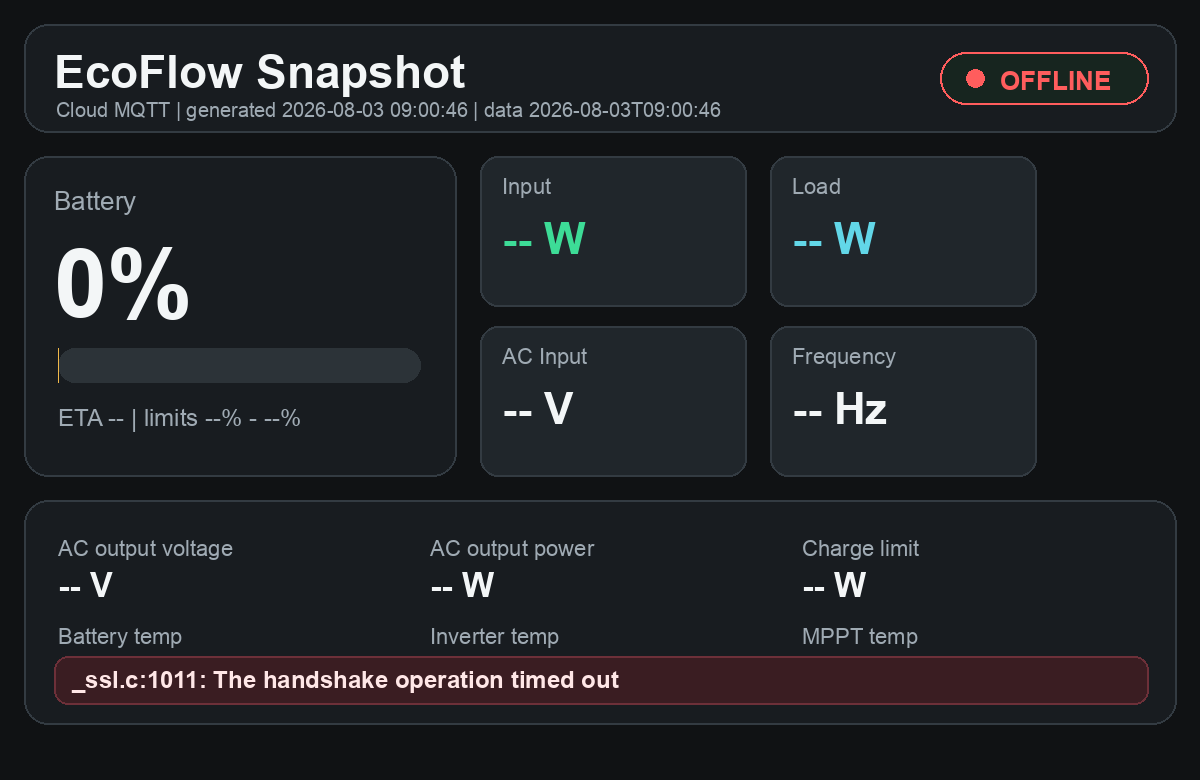
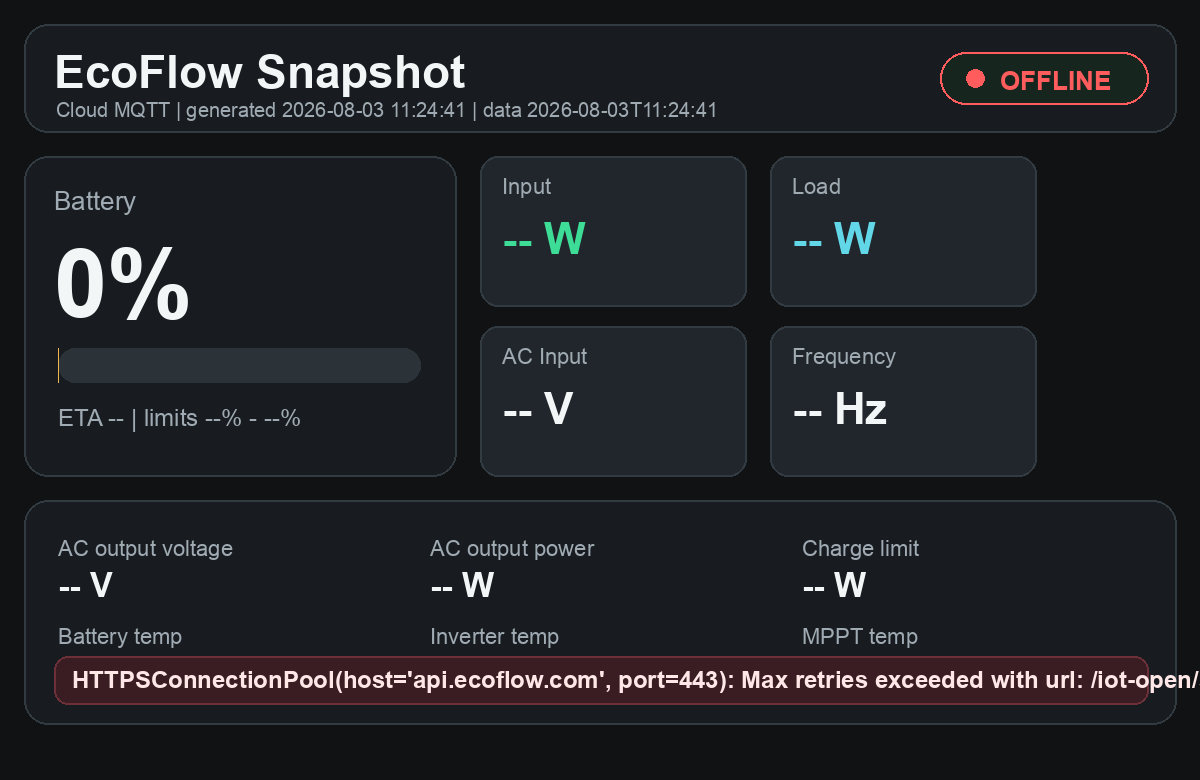
Update EcoFlow dashboard 2026-08-03 11:24:41

Changed region(s): [[0.0617, 0.8615, 1.0, 0.8923], [0.3083, 0.1231, 0.6167, 0.1538]]

diff --git a/index.html b/index.html
@@ -177,12 +177,12 @@
   <header>
     <div>
       <h1>EcoFlow Snapshot</h1>
-      <div class="sub">Cloud MQTT · generated 2026-08-03T09:00:46 · data 2026-08-03T09:00:46</div>
+      <div class="sub">Cloud MQTT · generated 2026-08-03T11:24:41 · data 2026-08-03T11:24:41</div>
     </div>
     <div class="status offline"><span class="dot"></span><span>Offline</span></div>
   </header>
 
-  <div class='error'>_ssl.c:1011: The handshake operation timed out</div>
+  <div class='error'>HTTPSConnectionPool(host=&#x27;api.ecoflow.com&#x27;, port=443): Max retries exceeded with url: /iot-open/sign/certification (Caused by NameResolutionError(&quot;HTTPSConnection(host=&#x27;api.ecoflow.com&#x27;, port=443): Failed to resolve &#x27;api.ecoflow.com&#x27; ([Errno 8] nodename nor servname provided, or not known)&quot;))</div>
 
   <div class="grid">
     <section>
@@ -212,8 +212,8 @@
       <h2>Останні 24 години</h2>
       <div class="daily-grid">
         <div class="daily-item"><span class="label">Напруга min / max</span><strong>-- V / -- V</strong><small>-- / --</small></div>
-        <div class="daily-item"><span class="label">SOC min / max</span><strong>73% / 73%</strong><small>02.08 10:25 / 02.08 10:25</small></div>
-        <div class="daily-item"><span class="label">Пік навантаження</span><strong>0 W</strong><small>02.08 10:25</small></div>
+        <div class="daily-item"><span class="label">SOC min / max</span><strong>73% / 73%</strong><small>02.08 11:54 / 02.08 11:54</small></div>
+        <div class="daily-item"><span class="label">Пік навантаження</span><strong>0 W</strong><small>02.08 11:54</small></div>
         <div class="daily-item"><span class="label">Зарядний ліміт</span><strong>1800 W</strong><small>пік входу 0 W · 0% ліміту</small></div>
         <div class="daily-item"><span class="label">Заряджання</span><strong>0 сек</strong><small>--</small></div>
         <div class="daily-item"><span class="label">Розряджання</span><strong>0 сек</strong><small>--</small></div>
@@ -237,8 +237,8 @@
     <pre>{
   &quot;ok&quot;: false,
   &quot;source&quot;: &quot;Cloud MQTT&quot;,
-  &quot;timestamp&quot;: &quot;2026-08-03T09:00:46&quot;,
-  &quot;error&quot;: &quot;_ssl.c:1011: The handshake operation timed out&quot;,
+  &quot;timestamp&quot;: &quot;2026-08-03T11:24:41&quot;,
+  &quot;error&quot;: &quot;HTTPSConnectionPool(host=&#x27;api.ecoflow.com&#x27;, port=443): Max retries exceeded with url: /iot-open/sign/certification (Caused by NameResolutionError(\&quot;HTTPSConnection(host=&#x27;api.ecoflow.com&#x27;, port=443): Failed to resolve &#x27;api.ecoflow.com&#x27; ([Errno 8] nodename nor servname provided, or not known)\&quot;))&quot;,
   &quot;history&quot;: [
     {
       &quot;ts&quot;: &quot;2026-07-26T11:29:07&quot;,
@@ -252,8 +252,8 @@
   ],
   &quot;telemetry&quot;: {
     &quot;window&quot;: &quot;24h&quot;,
-    &quot;sample_count&quot;: 14,
-    &quot;from&quot;: &quot;2026-08-02T10:25:53&quot;,
+    &quot;sample_count&quot;: 13,
+    &quot;from&quot;: &quot;2026-08-02T11:54:57&quot;,
     &quot;to&quot;: &quot;2026-08-03T06:58:56&quot;,
     &quot;latest&quot;: {
       &quot;mode&quot;: &quot;idle&quot;,
@@ -273,25 +273,25 @@
     &quot;soc&quot;: {
       &quot;min&quot;: {
         &quot;value&quot;: 73.0,
-        &quot;ts&quot;: &quot;2026-08-02T10:25:53&quot;
+        &quot;ts&quot;: &quot;2026-08-02T11:54:57&quot;
       },
       &quot;max&quot;: {
         &quot;value&quot;: 73.0,
-        &quot;ts&quot;: &quot;2026-08-02T10:25:53&quot;
+        &quot;ts&quot;: &quot;2026-08-02T11:54:57&quot;
       }
     },
     &quot;power&quot;: {
       &quot;max_load&quot;: {
         &quot;value&quot;: 0.0,
-        &quot;ts&quot;: &quot;2026-08-02T10:25:53&quot;
+        &quot;ts&quot;: &quot;2026-08-02T11:54:57&quot;
       },
       &quot;max_input&quot;: {
         &quot;value&quot;: 0.0,
-        &quot;ts&quot;: &quot;2026-08-02T10:25:53&quot;
+        &quot;ts&quot;: &quot;2026-08-02T11:54:57&quot;
       },
       &quot;max_ac_output&quot;: {
         &quot;value&quot;: 0.0,
-        &quot;ts&quot;: &quot;2026-08-02T10:25:53&quot;
+        &quot;ts&quot;: &quot;2026-08-02T11:54:57&quot;
       },
       &quot;charge_limit_w&quot;: 1800.0,
       &quot;max_input_pct_of_current_limit&quot;: 0,
@@ -301,10 +301,10 @@
     &quot;modes&quot;: {
       &quot;charging_sec&quot;: 0,
       &quot;discharging_sec&quot;: 0,
-      &quot;idle_sec&quot;: 2340,
+      &quot;idle_sec&quot;: 2160,
       &quot;charging&quot;: &quot;0 сек&quot;,
       &quot;discharging&quot;: &quot;0 сек&quot;,
-      &quot;idle&quot;: &quot;39 хв&quot;,
+      &quot;idle&quot;: &quot;36 хв&quot;,
       &quot;last_charging&quot;: null,
       &quot;last_discharging&quot;: null
     }
